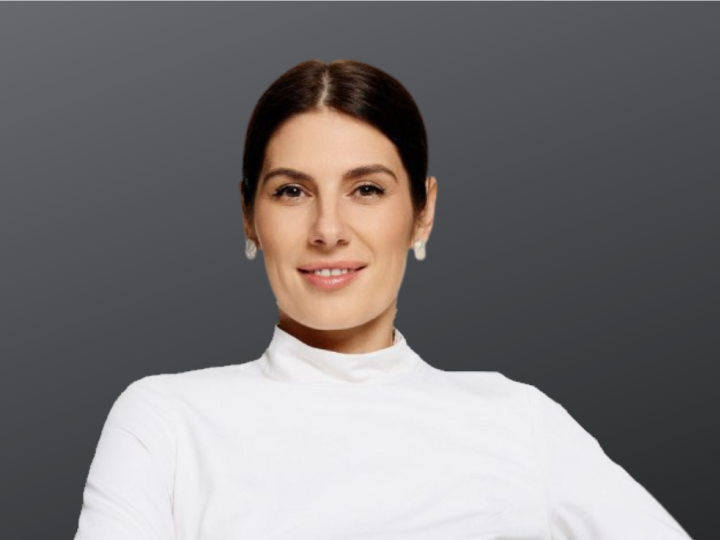
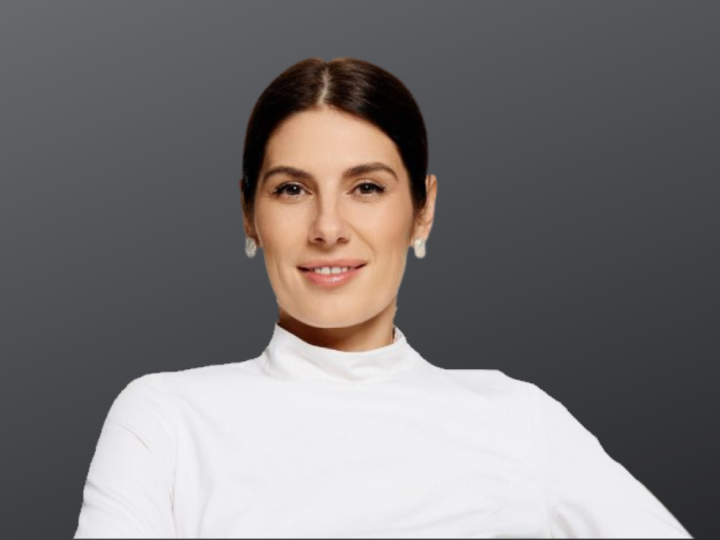
Дегелева: новое фото

diff --git a/data/speakers.js b/data/speakers.js
@@ -19,7 +19,7 @@ const speakers = [
   },
   {
     name: "Дегелева Ольга Михайловна",
-    photo: "photos/Дегелева.png?v=3",
+    photo: "photos/Дегелева.png?v=4",
     credentials: "Врач-гинеколог, эндокринолог, нутрициолог, специалист УЗИ, Д-доктор. Специалист в области интегративной, превентивной и антивозрастной (Anti-Age) медицины.",
     topic: "Тема появится в ближайшее время."
   },

diff --git a/index.html b/index.html
@@ -458,7 +458,7 @@
   <button class="back-top" id="back-top" aria-label="Наверх">↑</button>
 
   <!-- DATA -->
-  <script src="data/speakers.js?v=9"></script>
+  <script src="data/speakers.js?v=10"></script>
   <script src="data/pricing.js?v=3"></script>
   <!-- MAIN -->
   <script src="js/main.js?v=25"></script>